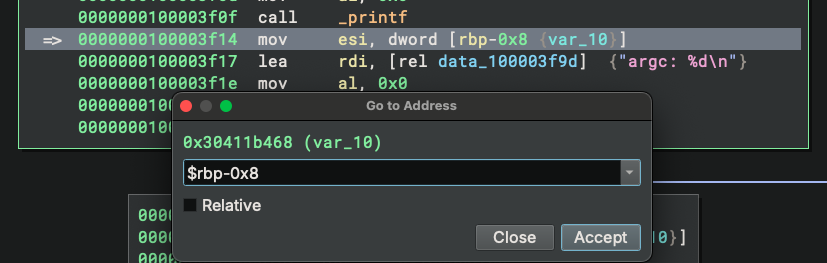
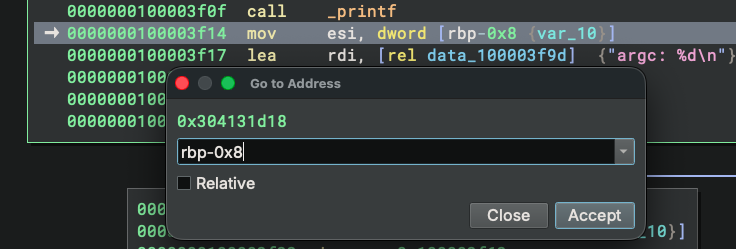
Update docs for conditional breakpoint

diff --git a/api/python/debuggercontroller.py b/api/python/debuggercontroller.py
@@ -2151,8 +2151,8 @@ class DebuggerController:
         If it evaluates to zero (false), the debugger silently continues execution.
 
         Example conditions:
-        - ``"$rax == 0x1234"`` - break when RAX equals 0x1234
-        - ``"$rsp + 0x20"`` - break when the expression is non-zero
+        - ``"rax == 0x1234"`` - break when RAX equals 0x1234
+        - ``"rsp + 0x20"`` - break when the expression is non-zero
 
         Pass an empty string to clear the condition.
 

diff --git a/ui/ui.cpp b/ui/ui.cpp
@@ -136,7 +136,7 @@ static void BreakpointEditConditionCallback(BinaryView* view, uint64_t addr, UIC
 
 	bool ok;
 	QString newCondition = QInputDialog::getText(
-		context->mainWindow(), "Edit Condition", "Condition (e.g., $rax == 0x1234):",
+		context->mainWindow(), "Edit Condition", "Condition (e.g., rax == 0x1234):",
 		QLineEdit::Normal, QString::fromStdString(currentCondition), &ok);
 
 	if (ok)

diff --git a/ui/breakpointswidget.cpp b/ui/breakpointswidget.cpp
@@ -573,7 +573,7 @@ void DebugBreakpointsWidget::editCondition()
 
 	bool ok;
 	QString newCondition = QInputDialog::getText(
-		this, "Edit Condition", "Condition (e.g., $rax == 0x1234):",
+		this, "Edit Condition", "Condition (e.g., rax == 0x1234):",
 		QLineEdit::Normal, QString::fromStdString(currentCondition), &ok);
 
 	if (ok)

diff --git a/docs/guide/index.md b/docs/guide/index.md
@@ -89,9 +89,29 @@ An experimental feature is added to shorten the list: registers with a value of 
 
 ![](../../img/debugger/breakpointwidget.png)
 
-The breakpoint widget lists breakpoints in the target. There are two columns in it, the left one shows the address in the format of `module + offset`, and the right column shows the absolute address.
+The breakpoint widget lists breakpoints in the target. There are three columns: the left one shows the address in the format of `module + offset`, the middle column shows the absolute address, and the right column shows the condition (if any).
 
-The context menu of the widget offers to delete a breakpoint or to jump to the address of a breakpoint.
+The context menu of the widget offers several options:
+- **Jump to Breakpoint**: Navigate to the breakpoint address
+- **Remove Breakpoint**: Delete the selected breakpoint
+- **Edit Condition**: Set or modify a conditional expression for the breakpoint
+
+##### Conditional Breakpoints
+
+![](../../img/debugger/conditional_breakpoint.png)
+
+Conditional breakpoints allow you to specify an expression that is evaluated each time the breakpoint is hit. The debugger only stops if the condition evaluates to a non-zero value (true). If the condition evaluates to zero (false), execution continues silently.
+
+Conditions are evaluated using Binary Ninja's expression parser, which supports:
+- Register values (e.g., `rax`, `rsp`, `eip`)
+- Arithmetic operations (e.g., `rsp + 0x20`)
+- Comparisons (e.g., `rax == 0x1234`)
+- Memory dereferences (e.g., `[rsp]`, `[rax + 0x10]`)
+
+Example conditions:
+- `rax == 0x1234` - break when RAX equals 0x1234
+- `rsp + 0x20` - break when the expression is non-zero
+- `[rsp] == 0` - break when the value at the stack pointer is zero
 
 
 ### Debugger Menu
@@ -250,6 +270,8 @@ Among these actions, target control actions, e.g., `Run`/`Step Into` have the sa
 
 `Toggle Breakpoint` adds a breakpoint at the current location if there is no breakpoint; otherwise, the existing breakpoint is removed.
 
+`Edit Breakpoint Condition...` allows you to set or modify a condition for the breakpoint at the current location. See [Conditional Breakpoints](#conditional-breakpoints) for more details.
+
 `Run To Here` lets the target execute until the current line is hit.
 
 [//]: # (`Make Code` is an experimental feature that displays the selected region as code. If the region is indeed code, the user can use `P` to create a function there. Note that we recommend in _most_ situations that `p` be used, or if some code is incorrectly associated with another function, the fix is resolving the reason for that mistake. For example, adding a `No Return` property to a function.
@@ -393,6 +415,60 @@ There are several ways to launch the target:
 - Run `dbg.add_breakpoint(address)` or `dbg.delete_breakpoint(address)` in the Python console.
 
 
+### Set Conditional Breakpoints
+
+Conditional breakpoints pause execution only when a specified condition is true. This is useful for debugging loops or functions that are called many times, but you only want to stop under certain circumstances.
+
+#### Using the UI
+
+![](../../img/debugger/set_conditional_breakpoint.png)
+
+1. First, add a regular breakpoint at the desired location
+2. Right-click the breakpoint in the Breakpoint Widget
+3. Select `Edit Condition...` from the context menu
+4. Enter the condition expression in the dialog
+5. Click OK to save the condition
+
+The condition will be displayed in the Condition column of the Breakpoint Widget.
+
+To remove a condition, edit it and clear the text field.
+
+#### Using the Context Menu
+
+![](../../img/debugger/conditional_breakpoint_context_menu.png)
+
+You can also set a conditional breakpoint directly from the disassembly view:
+1. Right-click on a line that has a breakpoint
+2. Select `Edit Breakpoint Condition...`
+3. Enter the condition expression
+
+#### Using the API
+
+```python
+# Set a condition on a breakpoint at an absolute address
+dbg.set_breakpoint_condition(0x401000, "rax == 0x1234")
+
+# Set a condition using module-relative address (useful with ASLR)
+from binaryninja.debugger import ModuleNameAndOffset
+dbg.set_breakpoint_condition(ModuleNameAndOffset("myprogram", 0x1000), "rdi != 0")
+
+# Get the current condition for a breakpoint
+condition = dbg.get_breakpoint_condition(0x401000)
+
+# Clear a condition by passing an empty string
+dbg.set_breakpoint_condition(0x401000, "")
+```
+
+#### Condition Expression Syntax
+
+Conditions use Binary Ninja's expression parser. You can use:
+- Register names directly: `rax`, `rbx`, `rsp`, `eip`, etc.
+- Arithmetic: `rsp + 0x20`, `rax * 2`
+- Comparisons: `rax == 0x1234`, `rbx != 0`, `rcx < 100`
+- Memory reads: `[rsp]`, `[rax + 0x10]`
+- Hexadecimal values: `0x1234`, `0xdeadbeef`
+
+
 ### Modify Register Values
 
 - Right-click a value item in the Register widget, type in the new value, and hit enter
@@ -413,13 +489,13 @@ Note the 0th (first) frame in the stack frame widget usually contains the progra
 - Clicking an address in the debugger console navigates to the address
 - Use the `Jump to IP` action to instantly jump back to the current IP
 - Use the `Create Stack View` action to split the view and navigate to the stack pointer in the new pane
-- Use register values in the expression parser. We can use `$reg` to refer to the value of a register in the expression parser. 
-For example, `$rax` evaluates to the value of the `rax` register. 
-We can use `$eip`/`$rip`/`pc` to navigate to the current program counter, or `$esp`/`$rsp`/`sp` to navigate to the current stack pointer.
+- Use register values in the expression parser. We can use `reg` to refer to the value of a register in the expression parser. 
+For example, `rax` evaluates to the value of the `rax` register. 
+We can use `eip`/`rip`/`pc` to navigate to the current program counter, or `esp`/`rsp`/`sp` to navigate to the current stack pointer.
 Thanks to the power of the expression parse, these register values can be combined with other arithmetic operations.
-This is especially helpful to quickly navigate to the stack variables since they typically have an address like `$rsp+0x20` or `$rbp-0x8`, which the expression parser can calculate properly:
+This is especially helpful to quickly navigate to the stack variables since they typically have an address like `rsp+0x20` or `rbp-0x8`, which the expression parser can calculate properly:
 - Use module names in the expression parser. Similar to the way we can use a register value in the expression parser, we
-can also use module names in it. For example, `$helloworld` will be resolved to the base address of the `helloworld` module.
+can also use module names in it. For example, `helloworld` will be resolved to the base address of the `helloworld` module.
 
 ![](../../img/debugger/expressionparser.png)
 
